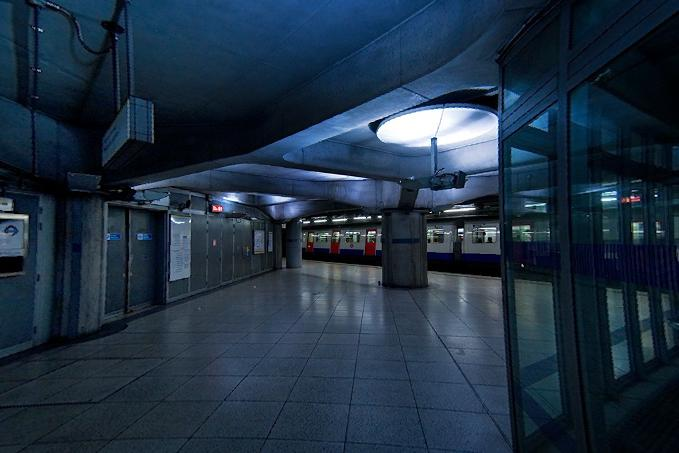
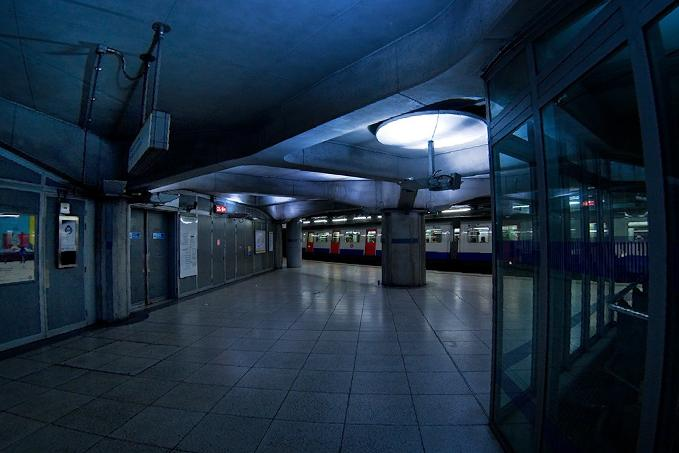
Wartosci zmiennych sa odczytywane z gui

diff --git a/main.cpp b/main.cpp
@@ -9,13 +9,17 @@ void SaveImage(QImage naszobraz) {
   qDebug() <<"Saved: " << naszobraz.save("convertedImage.jpg");
 }
 
-void ConvertFromFishEye(QImage naszobraz, QString ConversionType) {
+void ConvertFromFishEye(
+	QImage naszobraz, 
+	QString ConversionType,
+	double vStrenght,
+	double vRadius) {
 
   int W,H,WO,HO,xd,yd;
   // float foc=4.0/7.3,
   float foc=4.0/12.0;
   float r,xf,yf,cosfi,sinfi,D,DO;
-  float vStrenght=0.78;
+  //float vStrenght=0.78;
 
   W = naszobraz.width();
   H = naszobraz.height();

diff --git a/gui_fisheye/widget.cpp b/gui_fisheye/widget.cpp
@@ -77,6 +77,9 @@ void Widget::OpenClicked() {
 }
 
 void Widget::SaveClicked() {
-	ConvertFromFishEye(ImageToConvert, ConversionType);
+	double vStrenght = ui->correction_box->value();
+	double vRadius = ui->radius_box->value();
+	qDebug() << vStrenght;
+	ConvertFromFishEye(ImageToConvert, ConversionType, vStrenght, vRadius);
 }
 
